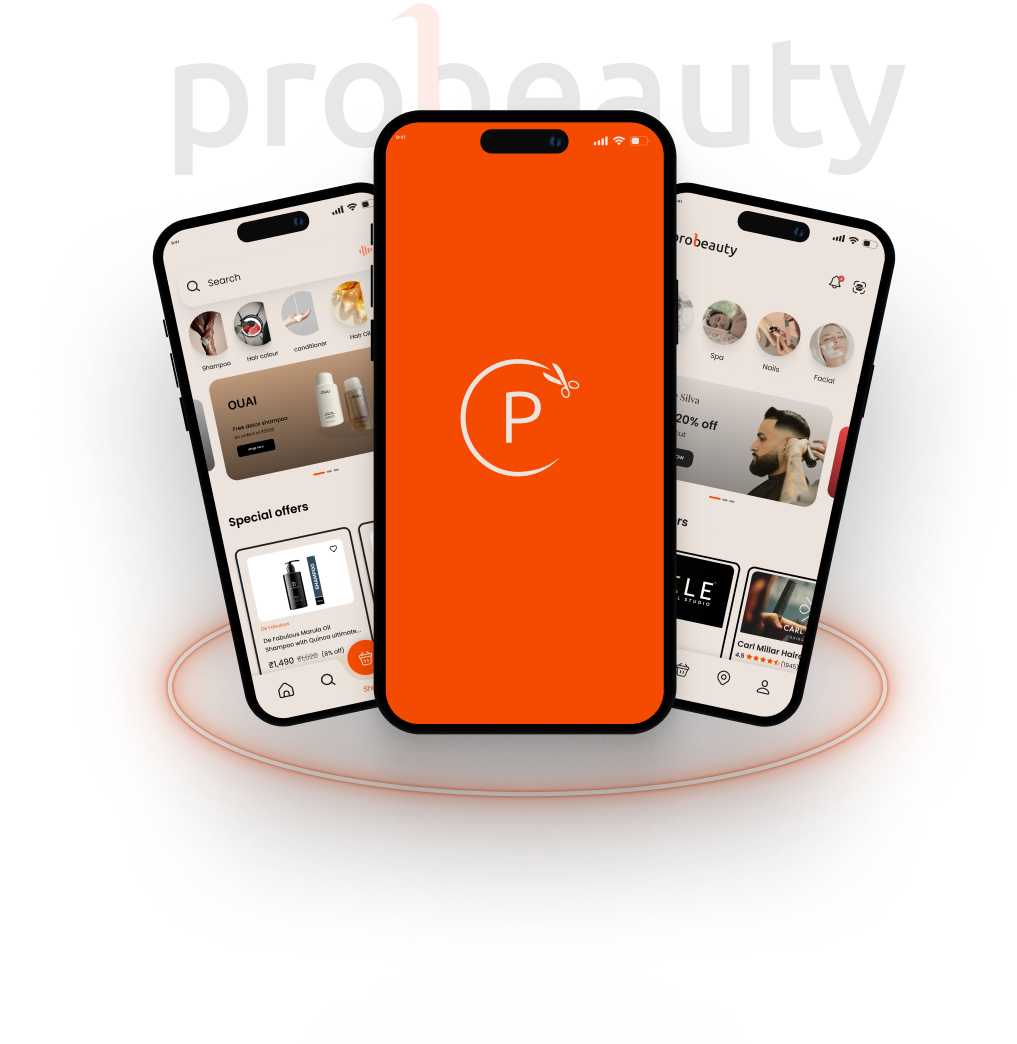
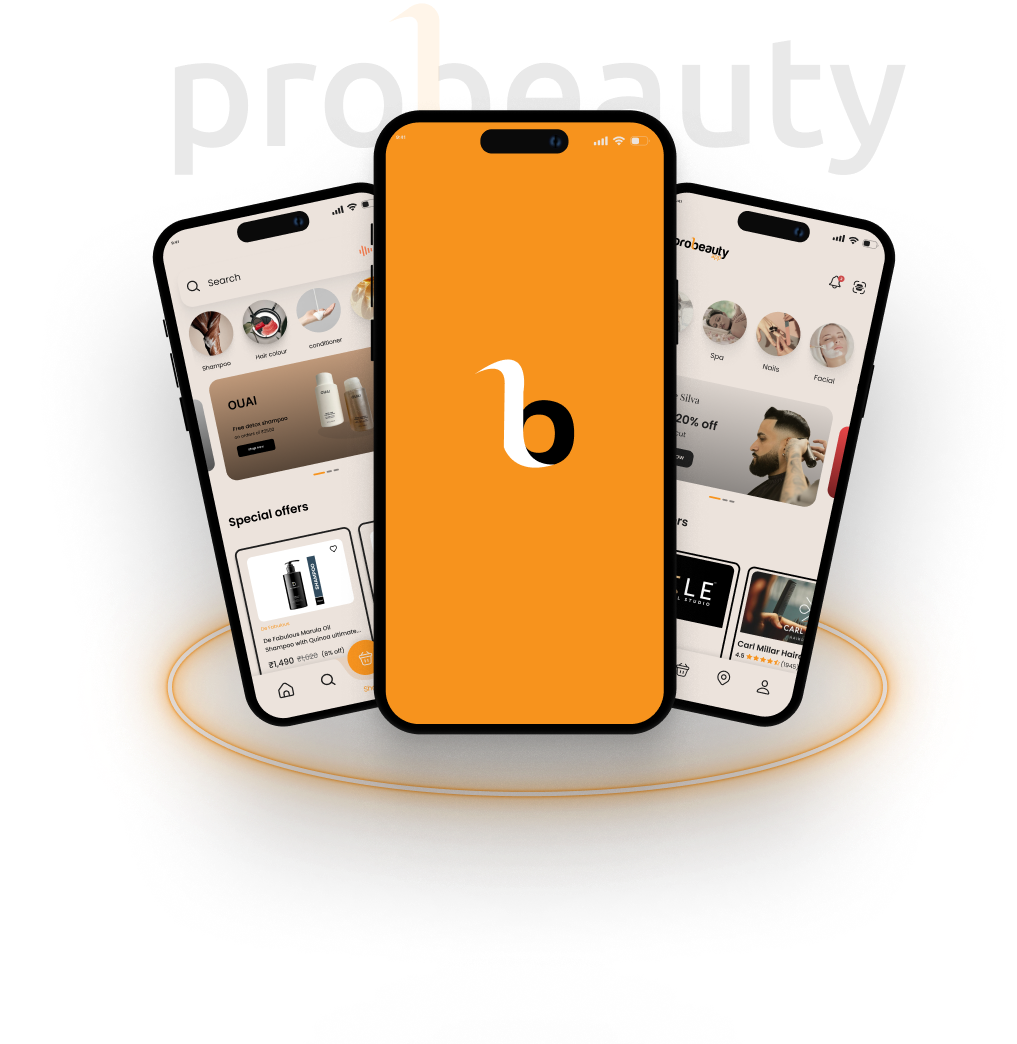
Fix: Uncomment the AppDownload component and make some changes

Changed region(s): [[0.1829, 0.092, 0.7316, 0.705]]

diff --git a/components/AppDownload.tsx b/components/AppDownload.tsx
@@ -41,7 +41,7 @@ export function AppDownload() {
   return (
     <section
       id="app"
-      className="py-12 sm:py-20 lg:py-24 bg-linear-to-r from-[#4D1C00] via-[#792800] to-[#F44A01] relative overflow-hidden"
+      className="py-12 sm:py-20 lg:py-24 bg-linear-to-r from-[#2E1B05] via-[#563003] to-[#F7931D] relative overflow-hidden"
     >
       <div className="max-w-[1400px] mx-auto px-6 sm:px-8 lg:px-12 relative z-10">
         <div className="grid grid-cols-1 lg:grid-cols-2 gap-8 lg:gap-16 items-center">
@@ -79,7 +79,7 @@ export function AppDownload() {
               whileInView={{ opacity: 1, y: 0 }}
               viewport={{ once: true }}
               transition={{ duration: 0.8, delay: 0.4 }}
-              className="space-y-3 sm:space-y-5 mb-6 sm:mb-10"
+              className="space-y-6 sm:space-y-8 mb-6 sm:mb-10"
             >
               {features.map((feature, index) => (
                 <motion.div
@@ -119,7 +119,7 @@ export function AppDownload() {
               <Button
                 size="lg"
                 onClick={() => toast.info("Redirecting to App Store...")}
-                className="bg-[#FFFFFF1A] text-white hover:bg-black px-5 py-3 sm:px-6 sm:py-4 rounded-2xl group transition-all duration-300 transform hover:scale-105 shadow-lg h-auto"
+                className="bg-[#FFFFFF1A] text-white hover:bg-black px-5 py-3 sm:px-6 sm:py-4 rounded-full group transition-all duration-300 transform hover:scale-105 shadow-lg h-auto"
               >
                 <Download className="h-5 w-5 sm:h-6 sm:w-6 mr-2.5 sm:mr-3 text-white flex-shrink-0" />
                 <div className="text-left">
@@ -132,7 +132,7 @@ export function AppDownload() {
                 onClick={() =>
                   toast.info("Redirecting to Google Play Store...")
                 }
-                className="bg-[#FFFFFF1A] text-white hover:bg-black px-5 py-3 sm:px-6 sm:py-4 rounded-2xl group transition-all duration-300 transform hover:scale-105 shadow-lg h-auto"
+                className="bg-[#FFFFFF1A] text-white hover:bg-black px-5 py-3 sm:px-6 sm:py-4 rounded-full group transition-all duration-300 transform hover:scale-105 shadow-lg h-auto"
               >
                 <Download className="h-5 w-5 sm:h-6 sm:w-6 mr-2.5 sm:mr-3 text-white flex-shrink-0" />
                 <div className="text-left">
@@ -149,7 +149,7 @@ export function AppDownload() {
               whileInView={{ opacity: 1, y: 0 }}
               viewport={{ once: true }}
               transition={{ duration: 0.8, delay: 1 }}
-              className="flex flex-wrap justify-center sm:justify-start items-center gap-6 sm:gap-8"
+              className="flex flex-wrap justify-center sm:justify-start items-center gap-10 sm:gap-16"
             >
               {stats.map((stat, index) => (
                 <motion.div
@@ -166,7 +166,7 @@ export function AppDownload() {
                   <div className="text-xl sm:text-2xl font-bold font-display text-[#F44A01] mb-0.5">
                     {stat.value}
                   </div>
-                  <div className="text-xs sm:text-sm text-white/90">
+                  <div className="text-xs sm:text-sm text-[#ECE3DC]">
                     {stat.label}
                   </div>
                 </motion.div>

diff --git a/app/HomeClient.tsx b/app/HomeClient.tsx
@@ -37,7 +37,7 @@ export default function HomeClient() {
               <Shop />
               <SalonBooking onBookAppointment={handleBookAppointment} />
               <BusinessListing />
-              {/* <AppDownload /> */}
+              <AppDownload />
               <Testimonials />
               <Newsletter />
             </div>